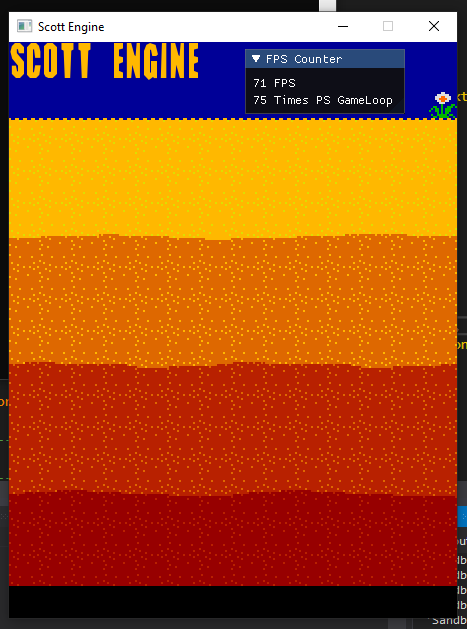
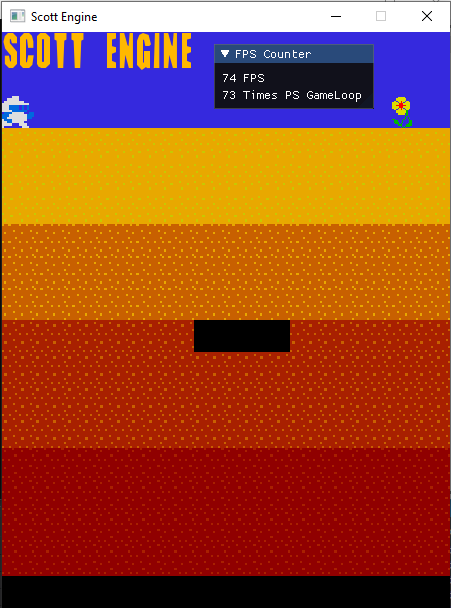
Testing out some Ideas for the level

diff --git a/Sandbox/src/Layers/GameLayer.cpp b/Sandbox/src/Layers/GameLayer.cpp
@@ -10,6 +10,11 @@ GameLayer::GameLayer()
 	, m_Renderer{ Scott::Renderer::GetInstance() }
 	, m_pTestObject{ nullptr }
 	, m_pTextObject{ nullptr }
+	, m_LevelWidth{ 14 }
+	, m_LevelHeight{ 18 }
+	, m_TileSize{ 32 }
+	, m_LevelString{}
+	, m_BlackTexture{ nullptr }  
 {
 }
 
@@ -22,6 +27,22 @@ void GameLayer::OnAttach()
 	m_SceneManager.CreateScene("TestScene");
 	Scott::Scene* scene = m_SceneManager.GetScene("TestScene");
 
+	std::string filePath = "../Resources/black.png";
+	SDL_Surface* surface = IMG_Load(filePath.c_str());
+
+	if (surface == nullptr)
+	{
+		SC_CORE_ERROR("ResourceManager::LoadTexture > Failed to load SDL_Surface: {0}", SDL_GetError());
+	}
+
+	SDL_Texture* pTexture = SDL_CreateTextureFromSurface(m_Renderer.GetSDLRenderer(), surface);
+	if (pTexture == nullptr)
+	{
+		SC_CORE_ERROR("ResourceManager::LoadTexture > Failed to create texture: {0}", SDL_GetError());
+	}
+
+	m_BlackTexture = pTexture;
+	pTexture = nullptr;
 
 	// --------------------------- PNG ----------------------------------- //
 	{
@@ -32,7 +53,6 @@ void GameLayer::OnAttach()
 		Scott::TextureComponent* textureComponent = m_pTestObject->GetComponent<Scott::TextureComponent>();
 
 		m_pTestObject->GetTransform()->TranslateWorld(0, 0);
-		m_pTestObject->GetTransform()->ScaleWorld(2, 2);
 	}
 	// -------------------------------------------------------------------- //
 
@@ -49,15 +69,59 @@ void GameLayer::OnAttach()
 	}
 	// -------------------------------------------------------------------- //
 
-	// --------------------------- PNG ----------------------------------- //
+	// --------------------------- LEVEL ---------------------------------- //
 	{
-
-
-
-
-
+		m_LevelString += L"..............";
+		m_LevelString += L"..............";
+		m_LevelString += L"..............";
+		m_LevelString += L"..............";
+		m_LevelString += L"..............";
+		m_LevelString += L"..............";
+		m_LevelString += L"..............";
+		m_LevelString += L"..............";
+		m_LevelString += L"..............";
+		m_LevelString += L"......###.....";
+		m_LevelString += L"..............";
+		m_LevelString += L"..............";
+		m_LevelString += L"..............";
+		m_LevelString += L"..............";
+		m_LevelString += L"..............";
+		m_LevelString += L"..............";
+		m_LevelString += L"..............";
+		m_LevelString += L"..............";
 	}
 	// -------------------------------------------------------------------- //
+
+	// --------------------------- PLAYER --------------------------------- //
+	{
+		m_pPlayer = new Scott::GameObject("Player");
+
+		scene->Add(m_pPlayer);
+		m_pPlayer->AddComponent(new Scott::TextureComponent("player.png"));
+
+		m_pPlayer->GetTransform()->TranslateWorld(0, 64);
+	}
+	// -------------------------------------------------------------------- //
+}
+
+wchar_t GameLayer::GetTile(int x, int y)
+{
+	if (x >= 0 && x < m_LevelWidth && y >= 0 && y < m_LevelHeight)
+	{
+		return m_LevelString[y * m_LevelWidth + x];
+	}
+	else
+	{
+		return L' ';
+	}
+}
+
+void GameLayer::SetTile(int x, int y, wchar_t c)
+{
+	if (x >= 0 && x < m_LevelWidth && y >= 0 && y < m_LevelHeight)
+	{
+		m_LevelString[y * m_LevelWidth + x] = c;
+	}
 }
 
 void GameLayer::OnDetach()
@@ -70,4 +134,21 @@ void GameLayer::OnUpdate()
 
 void GameLayer::Render()
 {
+	for (int x = 0; x < m_LevelWidth; ++x)
+	{
+		for (int y = 0; y < m_LevelHeight; ++y)
+		{
+			wchar_t tileID = GetTile(x, y);
+			switch (tileID)
+			{
+			case L'.':
+				break;
+			case L'#':
+				m_Renderer.RenderTexture(m_BlackTexture, x * m_TileSize, y * m_TileSize, m_TileSize, m_TileSize);
+				break;
+			default:
+				break;
+			}
+		}
+	}
 }

diff --git a/Scott/src/Scott/Renderer.cpp b/Scott/src/Scott/Renderer.cpp
@@ -64,9 +64,22 @@ namespace Scott
 
 	}
 
-	void Renderer::RenderTexture(const Texture2D& texture, float x, float y, float width, float height) const
+	void Renderer::RenderTexture(SDL_Texture* texture, int x, int y, int width, int height)
 	{
+		SDL_Rect dest;
 
+		dest.x = (int)x;
+		dest.y = (int)y;
+
+		SDL_QueryTexture(texture, nullptr, nullptr, &dest.w, &dest.h);
+
+		dest.w = int(width);
+		dest.h = int(height);
+
+		//dest.x = dest.x - (int)(dest.w / 2.0f);
+		//dest.y = dest.y - (int)(dest.h / 2.0f);
+
+		SDL_RenderCopyEx(GetSDLRenderer(), texture, nullptr, &dest, 0, nullptr, SDL_FLIP_NONE);
 	}
 
 	void Renderer::RenderTextureComponent(TextureComponent* textureComponent, TransformComponent* transfComponent)

diff --git a/Scott/src/Scott/Renderer.h b/Scott/src/Scott/Renderer.h
@@ -19,7 +19,7 @@ namespace Scott
 		void ClearBuffer();
 
 		void RenderTexture(const Texture2D& texture, float x, float y) const;
-		void RenderTexture(const Texture2D& texture, float x, float y, float width, float height) const;
+		void RenderTexture(SDL_Texture* texture, int x, int y, int width, int height);
 		void RenderTextureComponent(TextureComponent* textureComponent, TransformComponent* transfComponent);
 		void RenderTextComponent(TextComponent* textureComponent, TransformComponent* transfComponent);
 

diff --git a/Sandbox/src/Layers/GameLayer.h b/Sandbox/src/Layers/GameLayer.h
@@ -15,11 +15,25 @@ public:
 	void OnUpdate() override;
 	void Render() override;
 
+	wchar_t GetTile(int x, int y);
+	void SetTile(int x, int y, wchar_t c);
+
 private:
 	Scott::SceneManager& m_SceneManager;
 	Scott::Renderer& m_Renderer;
 
 	Scott::GameObject* m_pTestObject;
 	Scott::GameObject* m_pTextObject;
+	Scott::GameObject* m_pPlayer;
+
+
+	// Level
+	int m_LevelWidth;
+	int m_LevelHeight;
+
+	int m_TileSize;
+
+	std::wstring m_LevelString;
+	SDL_Texture* m_BlackTexture;
 };
 
